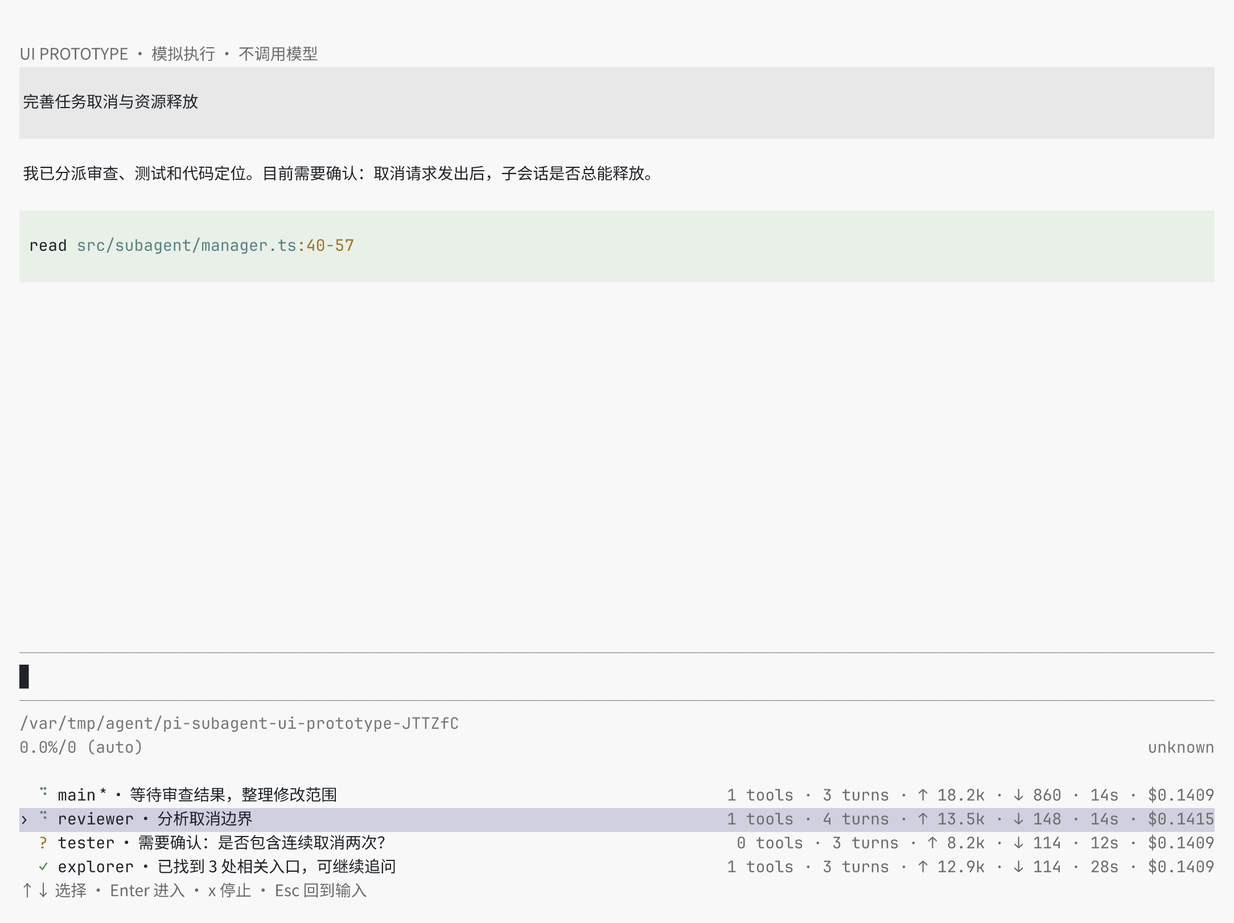
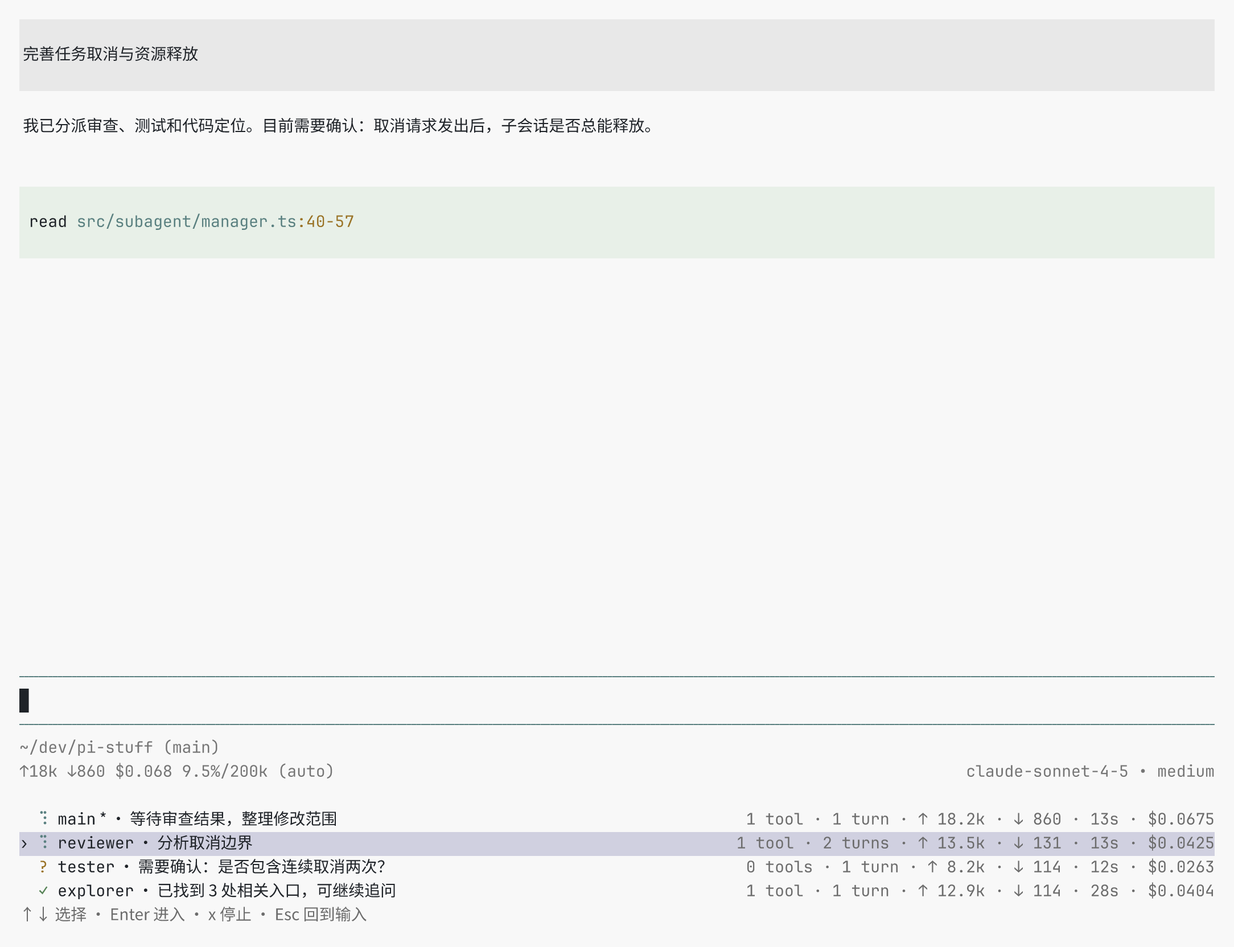
docs(prototype): refresh faithful UI evidence and launch notes

diff --git a/tools/subagent-ui-prototype/README.md b/tools/subagent-ui-prototype/README.md
@@ -1,92 +1,93 @@
 # Subagent Fleet UI prototype
 
-A throwaway, offline prototype for [issue #49](https://github.com/jczhang02/pi-stuff/issues/49), retained on `codex/prototype-subagent-ui` and [draft PR #52](https://github.com/jczhang02/pi-stuff/pull/52). The production fork source remains Arhen's `pi-core-subagent`; this artifact does not import its runtime.
+This runnable UI preview answers how a bottom Fleet and full agent conversations should look and respond. It follows the [prototype fidelity standard](../../design.md#tui-prototype-fidelity) merged in #54. The interface contains product content and controls; the sample execution and its limits are explained here.
 
-## Run
+The artifact belongs to [issue #49](https://github.com/jczhang02/pi-stuff/issues/49), branch `codex/prototype-subagent-ui` and [draft PR #52](https://github.com/jczhang02/pi-stuff/pull/52). It remains outside main. The production fork source is Arhen's `pi-core-subagent`; this preview does not import its runtime.
 
-From this worktree:
+## Run and join
 
-```bash
-bun tools/subagent-ui-prototype/run.ts --theme=light
-```
-
-Use `--theme=dark` or `--theme=auto` for the other theme modes. To join the shared demonstration:
+Use the main project checkout as the working directory, so the native statusline shows the project being evaluated. With the retained worktree under `.worktrees/codex/prototype-subagent-ui`, run:
 
 ```bash
-bun run tui attach -s subagent-fleet-v3
+bun .worktrees/codex/prototype-subagent-ui/tools/subagent-ui-prototype/run.ts --theme=light
 ```
 
-If that session is absent, launch it:
+The launcher uses its caller's project directory for Pi's visible context and a temporary directory for process execution and agent storage. Use `--theme=dark` or `--theme=auto` for the other theme modes. `--scenario=running` starts the ongoing work; `--scenario=completed` opens after the checks have finished, with tester still awaiting input. Restart the command to replay. Scenario and theme selection take no terminal rows or keys; F2 has no prototype handler.
+
+To join the shared preview from that checkout:
 
 ```bash
-bun run tui -s subagent-fleet-v3 --cols 125 --rows 38 --background -- bun tools/subagent-ui-prototype/run.ts --theme=light
+bun run tui attach -s subagent-fleet-v4
 ```
 
-F2 opens prototype controls: `t` switches theme, `r` resets sample work, and F2 returns to the editor. These controls are available from main. They are prototype controls, not Claude Code shortcuts. The previous three layout variants are replaced by the maintainer's selected single layout.
+If the session is absent, launch it:
 
-Return to main, clear its editor, and press Ctrl+D to exit the isolated host.
+```bash
+bun run tui -s subagent-fleet-v4 --cols 125 --rows 38 --background -- bun .worktrees/codex/prototype-subagent-ui/tools/subagent-ui-prototype/run.ts --theme=light
+```
 
-## Confirmed layout
+After returning to main and clearing the editor, Ctrl+D exits. To replay your shared preview, run this from another terminal:
 
-The order is **conversation → editor → native Pi statusline → Fleet**. Each agent has one uniform row containing its status icon, name, current activity, input/output token counts and elapsed time. Selection changes the highlight, not the information shown. At 125 columns and wider, rows also include tools, turns and cost; narrower rows retain tokens and elapsed time and shorten activity first. The prototype needs at least 50 columns to display useful Fleet rows.
+```bash
+bun run tui -s subagent-fleet-v4 restart
+```
 
-A spinner denotes running, `?` waiting for input, `✓` completed and `■` stopped. `›` marks keyboard selection; `*` marks the conversation currently shown. Finished sample agents remain available for continuation. This retention follows the maintainer's requirement and does not reproduce the secondary reference implementation's timed removal of idle rows.
+## Layout and controls
 
-## Interaction reference and limits
+The order is **conversation → native editor → native Pi statusline → Fleet**. Every agent row shows a status icon, name, current activity, input/output tokens and elapsed time. Selection changes highlight only. At 125 columns, the row also shows tools, turns and cost. Narrower rows retain tokens and elapsed time and shorten activity first. The useful minimum is 50 columns; the child view also needs 18 rows.
 
-The reference is Claude Code's **in-process teammate panel**, not its separate `claude agents` page. Sources checked on 2026-09-12: [agent teams](https://code.claude.com/docs/en/agent-teams), [Footer and Transcript keybindings](https://code.claude.com/docs/en/keybindings), and [interactive mode](https://code.claude.com/docs/en/interactive-mode). The published [`@tintinweb/pi-subagents` 0.19.0 FleetView](https://github.com/tintinweb/pi-subagents) was inspected as a secondary implementation reference; no source was copied.
+A spinner means running, `?` waiting for input, `✓` completed and `■` stopped. `›` marks keyboard selection and `*` the open conversation. Completed agents remain available for continuation. No automatic child notification is injected into a visible Follow-up queue.
 
-| Context                    | Prototype behavior                                                          | Evidence boundary                                                                                                                      |
-| -------------------------- | --------------------------------------------------------------------------- | -------------------------------------------------------------------------------------------------------------------------------------- |
-| Empty editor               | Down or Left selects the main Fleet row                                     | Third-party FleetView reference; exact Claude activation gate is not specified in the official docs                                    |
-| Fleet selected             | Up/Down moves; Up above main or Esc returns focus to the editor             | Official Footer bindings                                                                                                               |
-| Fleet selected             | Enter opens the selected conversation; main returns to the native main view | Enter is official; the main-row convention follows the reference implementation                                                        |
-| Fleet selected             | `x` stops the selected running child                                        | Official teammate-panel behavior                                                                                                       |
-| Fleet selected             | Typing returns focus to the editor and preserves that keystroke             | Reference implementation; no global input interception                                                                                 |
-| Child conversation         | Type and Enter to continue that conversation; other agents keep progressing | Documented direct teammate messaging; replies here are fixtures                                                                        |
-| Running child conversation | Esc interrupts its current sample round and leaves the conversation open    | Interrupt is official; remaining in the view is an explicit prototype choice because the docs do not define the combined exit behavior |
-| Idle child conversation    | Esc returns to main                                                         | Generic Transcript exit binding; team-specific idle behavior is not separately specified                                               |
-| Child conversation         | Ctrl+C returns to main, preserving the draft and background work            | Generic Transcript exit binding applied to this prototype                                                                              |
-| Child conversation         | Ctrl+O expands tools; PgUp/PgDn scroll; Ctrl+End shows latest               | Pi presentation controls, not a claim of Claude Code parity                                                                            |
+| Context            | Action                                                                                    |
+| ------------------ | ----------------------------------------------------------------------------------------- |
+| Empty editor       | Down or Left selects the main Fleet row                                                   |
+| Fleet selected     | Up/Down selects; Up above main or Esc returns to the editor                               |
+| Fleet selected     | Enter opens the selected conversation; selecting main returns to the main view            |
+| Fleet selected     | `x` stops a running child; typing returns to the editor and preserves the typed character |
+| Child conversation | Type and Enter sends to that agent; other work keeps progressing                          |
+| Running child      | Esc interrupts the current round and keeps the conversation open                          |
+| Idle child         | Esc returns to main                                                                       |
+| Child conversation | Ctrl+C returns to main and preserves the draft and background work                        |
+| Child conversation | Ctrl+O expands tools; PgUp/PgDn scroll; Ctrl+End shows the latest content                 |
 
-Claude Code is not installed in this environment. **Exact interaction parity has not been verified.** In particular, the official team and transcript documentation does not fully specify whether Esc both interrupts and exits a running teammate view. The prototype makes that boundary reviewable rather than presenting an inferred behavior as an observed fact.
+The reference is Claude Code's in-process teammate panel. Sources checked in the preceding revision on 2026-09-12: [agent teams](https://code.claude.com/docs/en/agent-teams), [keybindings](https://code.claude.com/docs/en/keybindings) and [interactive mode](https://code.claude.com/docs/en/interactive-mode). [`@tintinweb/pi-subagents` 0.19.0](https://github.com/tintinweb/pi-subagents) provided a secondary FleetView reference; no source was copied.
 
-## What is native and what is simulated
+Claude Code is absent on this host, so exact interaction parity is unverified. Official documentation specifies Footer navigation, Enter, stopping with `x`, and interruption with Esc, but does not completely define the combined interrupt/exit behavior of a running teammate view. Staying in the running view after Esc is the current design choice. Empty-editor activation and typing out of Fleet selection follow the secondary reference. Tool expansion and scrolling use Pi controls. The maintainer can evaluate these interactions without deciding the internal runtime design first.
 
-`run.ts` starts Bun with an isolated temporary cwd and a whitelist of environment variables. `host.ts` starts Pi 0.85.1's real SDK `InteractiveMode`, an in-memory `SessionManager`, in-memory settings and an offline model runtime. Resource discovery is disabled. This revision is an SDK-hosted Pi UI; it is not an extension loaded by the separately compiled `/opt/bin/pi` binary.
+## Execution boundary
 
-Main uses the native Pi conversation layout and editor. A custom message renderer displays the fixture through Pi's `UserMessageComponent`, `AssistantMessageComponent` and `ToolExecutionComponent`. The bottom component renders a real `FooterComponent` first and appends Fleet rows. A plain extension's `belowEditor` widget would put Fleet above the native footer, which is the wrong position for this design. The SDK closure provides the actual `AgentSession` needed to construct the native footer, without private-field access.
+`host.ts` uses the real Pi 0.85.1 SDK `InteractiveMode`, native messages, tools, editor and `FooterComponent`. The footer renders its normal project/model/usage lines before Fleet. Each displayed agent has an in-memory `AgentSession` with its own seeded usage. Opening a child switches the native footer with the public `setSession` API; the main footer is restored on return. Fleet and the native footer derive their numbers from the same fixture usage. Native rounding differs from Fleet rounding.
 
-Child conversations are full-screen custom views using the same native message/tool/editor components and native host footer. They are not independent Pi session runtimes. The native footer describes the isolated host session; fixture token counts belong to the Fleet rows. No model is configured, so the native footer reports zero usage and an unknown model.
+Only main owns an interactive runtime. Children use full-screen views composed of Pi's native components; their sessions supply native display context, not independent execution. Replies, source excerpts, tool output, paths under `src/subagent`, token totals and timings are samples. The displayed model is sample Sonnet metadata, not a connected provider. Costs derive from sample tokens; output tokens pause during tool execution. Sample tools are rendered but never executed. Plain text continues a fixed cancellation-review scenario; it is not interpreted by a model. Shell execution is disabled, child slash commands direct the user back to main, and session replacement/forking is blocked. These remain outside the UI interactions being evaluated.
 
-Sample agents, responses, code, paths, tools, token/cost totals and timing are synthetic. Tools are rendered but never executed; user shell execution and session replacement are blocked inside the demo. No real model requests, Arhen scheduling, context transfer, automatic follow-up delivery or recovery are implemented. In-memory session data disappears on exit; the launcher removes its temporary directory after normal host exit.
+Settings, sessions, auth and cache paths are isolated; credentials are not forwarded. Resource discovery is disabled, model catalog networking is off and the fixture model endpoint is loopback port 1. `HOME` is forwarded for native `~` path formatting. Normal host exit removes the temporary directory. The launcher does not change the live project's files.
 
-The explicit light/dark canvas reuses Pi 0.85.1's bundled `export.pageBg` colors and semantic foreground colors to prevent Tuistory's fallback foreground from mixing with a light outer terminal. The isolated host decorates the public terminal write function so native fullscreen erase operations and default SGR colors receive the same canvas; disposal restores the writer and resets SGR. Theme changes request a full repaint, including otherwise unchanged blank rows. Previous contrast measurements describe the earlier revision, not a new measurement of every current widget.
+The light/dark canvas uses Pi's semantic foreground and bundled page background colors. A decoration of the public terminal writer covers default SGR colors and fullscreen erase operations, including blank rows; disposal restores the writer. Theme changes trigger a full repaint. No private host fields are accessed and no dependencies were added.
 
-## Verification and evidence
+## Verification
 
-Verified with Bun 1.4.0, Pi SDK 0.85.1 and Tuistory 0.11.0 on Linux: native footer placement; uniform row statistics; empty/nonempty editor focus; selection/open/return; drafts; running input; Esc interruption; background work; completed continuation; tool expansion and streamed failure; 62-column and minimum-size views; theme switching; replay; native settings-menu focus. Focused probes passed main Ctrl+O, main submission, shell-command interception and graceful exit. Direct launch and actual Tuistory attach each passed light → dark → light with six blank rows containing explicit background cells in every state. Temporary probes use actual terminal state; no permanent test suite was added. Early probe failures came from an assumed token total, a short-lived activity label and a nonexistent settings heading; the corrected probe passed. Screenshot inspection also exposed unpainted fullscreen blank rows: a component wrapper did not cover the separate fullscreen layout root, and an early color assertion had accepted empty spans. The terminal-output fix and a nonempty-cell assertion now pass. `bun run check` and `git diff --check` passed. Exact Claude Code comparison and production subagent execution remain unverified.
+Current environment: Linux, Bun 1.4.0, Pi SDK 0.85.1, Tuistory 0.11.0. Actual terminal checks cover footer order and per-agent usage; row statistics; empty/nonempty editor focus; selection, entry and return; drafts; running input, interruption and completed continuation; tool expansion; native settings focus; 62-column and minimum-size layouts; and removal of F2 controls. Direct launch and actual Tuistory attach both passed light and dark canvas checks, each requiring six nonempty blank rows with the correct background, per-agent footer switching and normal host exit. The captures include streaming output, tool failure and completion. Temporary terminal probes are used instead of a permanent prototype test suite.
 
-Actual terminal captures: [main](evidence/fleet-main.png), [selection](evidence/fleet-selected.png), [child conversation](evidence/fleet-child.png), [expanded tool](evidence/expanded.png), [streaming tool](evidence/streaming.png), [dark theme](evidence/fleet-dark.png), [narrow terminal](evidence/narrow.png).
+This is SDK-hosted UI evidence. Loading the production extension in the separately compiled Pi host, Arhen scheduling, context transfer, recovery and exact Claude Code parity remain unverified. UI acceptance remains with the maintainer.
+
+Actual terminal captures: [main](evidence/fleet-main.png), [selection](evidence/fleet-selected.png), [child](evidence/fleet-child.png), [expanded tool](evidence/expanded.png), [streaming output](evidence/streaming.png), [failure](evidence/failure.png), [dark theme](evidence/fleet-dark.png), [narrow view](evidence/narrow.png).
 
 ## 中文说明
 
-这是 [Issue #49](https://github.com/jczhang02/pi-stuff/issues/49) 的离线原型，保留在独立分支和草稿 [PR #52](https://github.com/jczhang02/pi-stuff/pull/52)，不合入 main。正式 fork 仍以 Arhen 的 `pi-core-subagent` 为基础，本原型没有引入其运行时。
+这个可运行原型用于评估底部 Fleet 和代理完整对话的样式与操作，遵循 #54 合并的[原型呈现标准](../../design.md#tui-prototype-fidelity)。终端内只显示产品内容和控制；模拟范围及限制写在本文中。产物保留在 Issue #49、分支 `codex/prototype-subagent-ui` 和草稿 PR #52，不合入 main；尚未导入正式 Arhen 运行时。
 
-使用上方命令启动，或加入 `subagent-fleet-v3`。支持 `--theme=light|dark|auto`。在 main 中按 F2 打开演示控制，`t` 切换主题，`r` 重播，再按 F2 返回输入。这些是原型控制，不是 Claude Code 的快捷键。此前的三种布局已替换为维护者选定的单一布局。
+从主项目 checkout 执行上方启动命令，原生 statusline 会显示该项目。启动器另用临时目录运行进程和存放隔离的 agent 数据。支持 `--theme=light|dark|auto`；`--scenario=running` 从进行中的工作开始，`--scenario=completed` 直接显示检查结束的状态，此时 tester 仍等待输入。重新启动命令即可重播。这些开发控制不占界面空间或按键，F2 没有原型处理逻辑。共享会话为 `subagent-fleet-v4`，加入及重播命令见上方；返回 main、清空输入后，Ctrl+D 退出。
 
-返回 main 并清空输入框后，Ctrl+D 退出隔离宿主。
+布局为 **对话 → 原生 editor → Pi 原有 statusline → Fleet**。每行都有状态图标、名称、活动、输入/输出 token 和耗时，选择只改变高亮。125 列显示工具数、轮数及费用；窄屏先缩短活动，保留 token 和耗时。Fleet 至少需要 50 列，子对话至少需要 18 行。旋转图标表示运行，`?` 等待输入，`✓` 完成，`■` 停止；`›` 表示键盘选择，`*` 表示当前会话。完成的代理保留，可继续交流；自动通知不进入可见 Follow-up 队列。
 
-布局顺序固定为：**对话 → editor → Pi 原有 statusline → Fleet**。所有代理行同时显示状态图标、名称、当前活动、输入与输出 token、耗时；选择只改变高亮，不改变信息。125 列以上额外显示工具次数、轮次和费用，较窄时保留 token 与耗时并缩短活动文本。Fleet 至少需要 50 列。旋转图标表示运行，`?` 表示等待输入，`✓` 表示完成，`■` 表示停止；`›` 是键盘选择，`*` 是当前对话。完成的样例代理保留以便继续交流，这与第三方参考实现定时收起闲置行的行为不同。
+空输入按 Down/Left 进入 Fleet，Up/Down 选行，Enter 进入；Esc 或 main 上再按 Up 返回输入。选中运行中的子代理按 `x` 停止。在子对话输入并按 Enter 发送，其他代理继续推进。运行时 Esc 中断并留在当前对话，空闲时 Esc 返回 main；Ctrl+C 保留草稿返回。Ctrl+O 展开工具，PgUp/PgDn 滚动，Ctrl+End 回到最新。
 
-空输入时按 Down 或 Left 进入 Fleet；Up/Down 选行，Enter 进入，Esc 或 main 上再按 Up 返回输入。选中运行中的子代理后，`x` 停止它。在子对话中直接输入并按 Enter 发送；运行时 Esc 中断当前轮并留在对话中，空闲时 Esc 返回 main，Ctrl+C 可保留草稿返回 main，后台任务继续。Ctrl+O 展开工具，PgUp/PgDn 浏览记录，Ctrl+End 回到最新。后面这些是 Pi 的呈现操作。
+参考的是 Claude Code 会话内的队友面板。上方列出此前调研的官方资料和第三方参考；当前机器未安装 Claude Code，尚未逐项实测两个程序完全一致。官方文档没有完整说明运行中 Esc 是否同时退出，因此原型采用中断后留在当前对话的选择。空输入激活和选中后直接打字来自第三方参考；工具展开及滚动采用 Pi 按键。这轮仍是 UI 评估，无需先决定内部技术方案。
 
-参照的是 Claude Code 当前会话内的底部队友面板，不是独立的 `claude agents` 页面。上表逐项区分官方绑定、第三方参考和原型选择。当前环境没有安装 Claude Code，**没有完成两个程序的逐项一致性实测**。官方文档明确 Esc 会中断正在运行的队友，但没有完整定义是否同时退出该视图；本原型采用中断后留在对话中的行为，并明确保留这个待核实项。
+界面使用真实 Pi SDK `InteractiveMode` 及原生消息、工具、editor、footer。每个代理都有独立的内存会话与样例用量；切换时通过公开的 `FooterComponent.setSession` 显示该代理的原生底栏，返回时恢复主会话。Fleet 与原生底栏使用同一份计数，格式化精度不同。
 
-本轮通过 Pi SDK 启动真正的 `InteractiveMode`，主界面使用原生布局和编辑器；以原生消息与工具组件显示演示内容。底栏先调用真实 `FooterComponent`，再显示 Fleet。普通扩展的 `belowEditor` 实际位于 statusline 上方，不能满足已确认的位置；SDK 闭包提供真实会话对象，因此无需访问私有字段。此版本不是由单独编译的 `/opt/bin/pi` 加载的扩展。
+只有 main 拥有交互运行时；子代理是原生组件组成的全屏视图，内存会话只提供显示信息。回复、代码、工具输出、`src/subagent` 路径、token 和耗时都是样例。显示的 Sonnet 元数据不代表连接了模型；费用由样例 token 计算，工具运行时输出 token 暂停增长。工具不会执行，文字输入继续固定场景，不会被模型理解。Shell 禁用，子对话中的斜杠命令提示返回 main，持久化会话切换和 fork 被阻止；这些不属于本轮评估的 UI 操作。
 
-子代理对话仍是使用原生组件的全屏自定义视图，不是独立 Pi 会话运行时。原生底栏描述隔离宿主，Fleet 行中的 token 属于模拟代理；宿主没有配置模型，因此原生底栏的用量为零、模型为 unknown。回复、代码、路径、工具结果、计数和耗时都是样例，不代表真实仓库检查结果。不会执行工具或用户 shell 命令，也不会调用模型、切换持久化会话或接入正式调度。会话和设置在内存中，正常退出后清理临时启动目录。
+会话、设置、认证及缓存使用隔离存储，不传递凭证，不发现额外资源，不刷新模型目录；样例模型地址指向 loopback 端口 1。转发 `HOME` 仅用于原生路径中的 `~`。正常退出清理临时目录，不修改真实项目文件。浅色/深色使用 Pi 语义颜色，通过公开终端写接口覆盖空白行与擦除操作，释放时恢复接口；主题变化会完整重绘。没有访问私有字段或添加依赖。
 
-浅色与深色画布继续使用 Pi 的语义文字色和内置页面背景色；隔离宿主装饰公开的终端 write 方法，让全屏擦除操作和默认 SGR 颜色也使用一致画布；释放时恢复原方法并重置颜色。主题切换强制完整重绘，包括内容没有变化的空白行。此前的对比度数字属于旧版测量，不代表本轮每个组件均重新测量。
-
-验证环境为 Linux、Bun 1.4.0、Pi SDK 0.85.1 和 Tuistory 0.11.0。实际终端检查通过：底栏位置、所有行的统计、空与非空输入焦点、选择与进入、返回与草稿、运行中输入、Esc 中断、后台推进、完成后继续、工具展开与流式失败、62 列和最小窗口、主题、重播、原生设置菜单的按键。补充验证通过主界面 Ctrl+O、主会话发送、shell 命令拦截和正常退出。直接启动与实际 Tuistory attach 都通过浅色→深色→浅色切换，每个状态检查六条空白行确实包含指定背景色的非空单元数据。早期脚本误用了固定 token 数、短暂的活动文案和不存在的设置标题，修正为真实可见状态后通过。截图还发现全屏空白行未着色：普通组件包装覆盖不到独立的全屏布局，早期颜色断言又误将空数据判为通过。终端输出修正与要求非空单元的验证现已通过。`bun run check` 和 `git diff --check` 均通过；上方七个链接均为实际终端截图。Claude Code 完全一致性与正式子代理执行仍待验证。
+本轮在 Linux、Bun 1.4.0、Pi SDK 0.85.1、Tuistory 0.11.0 上检查底栏顺序与对应代理用量、行统计、输入焦点、选择进入返回、草稿、运行中输入与中断、完成后继续、工具展开、原生设置、62 列及最小窗口和 F2 清理。直接启动和实际 Tuistory attach 均通过浅色/深色检查：每次验证六条空白行确实包含正确背景色单元，并检查对应代理底栏和正常退出。上方八张链接均为实际终端截图，包括流式输出、失败和完成。验证使用临时终端脚本，没有添加永久原型测试套件。正式扩展在独立编译宿主中的加载、Arhen 调度、上下文转交、恢复及 Claude Code 完全一致性仍待验证，UI 等待维护者试玩验收。

diff --git a/docs/compatibility.md b/docs/compatibility.md
@@ -4,7 +4,7 @@
 
 ## Subagent UI prototype
 
-The throwaway launcher uses `Bun.spawn` in [run.ts](../tools/subagent-ui-prototype/run.ts) to start an isolated Bun process with inherited terminal streams and an explicit environment. Bun is already the repository's pinned runtime; a second process gives the SDK host its own temporary working and settings directory. No additional runtime dependency was added.
+The throwaway launcher uses `Bun.spawn` in [run.ts](../tools/subagent-ui-prototype/run.ts) to start an isolated Bun process with inherited terminal streams and an explicit environment. Bun is already the repository's pinned runtime; a second process gives the SDK host a temporary process cwd and agent storage, while the SDK uses the caller’s project cwd for native display context. No additional runtime dependency was added.
 
 The current prototype runs Pi SDK 0.85.1's `InteractiveMode` under Bun 1.4.0 on Linux, with Tuistory 0.11.0 for terminal interaction. Its session and settings are in memory. The prototype's [README](../tools/subagent-ui-prototype/README.md) records native versus simulated UI boundaries and the reproduction commands.
 

diff --git a/docs/i18n/zh-CN/compatibility.md b/docs/i18n/zh-CN/compatibility.md
@@ -4,7 +4,7 @@
 
 ## Subagent UI 原型
 
-一次性原型的 [run.ts](../../../tools/subagent-ui-prototype/run.ts) 使用 `Bun.spawn` 启动隔离的 Bun 进程，继承终端输入输出并显式设置环境变量。Bun 已是仓库固定的运行时；独立进程让 SDK 宿主使用自己的临时工作与设置目录，没有新增运行时依赖。
+一次性原型的 [run.ts](../../../tools/subagent-ui-prototype/run.ts) 使用 `Bun.spawn` 启动隔离的 Bun 进程，继承终端输入输出并显式设置环境变量。Bun 已是仓库固定的运行时；子进程在临时目录运行并隔离 agent 数据，SDK 则使用调用者项目目录作为原生显示上下文。没有新增运行时依赖。
 
 当前原型在 Linux、Bun 1.4.0 下运行 Pi SDK 0.85.1 的 `InteractiveMode`，使用 Tuistory 0.11.0 操作终端。会话与设置保存在内存中。[原型 README](../../../tools/subagent-ui-prototype/README.md) 记录原生与模拟 UI 的边界及复现命令。
 
